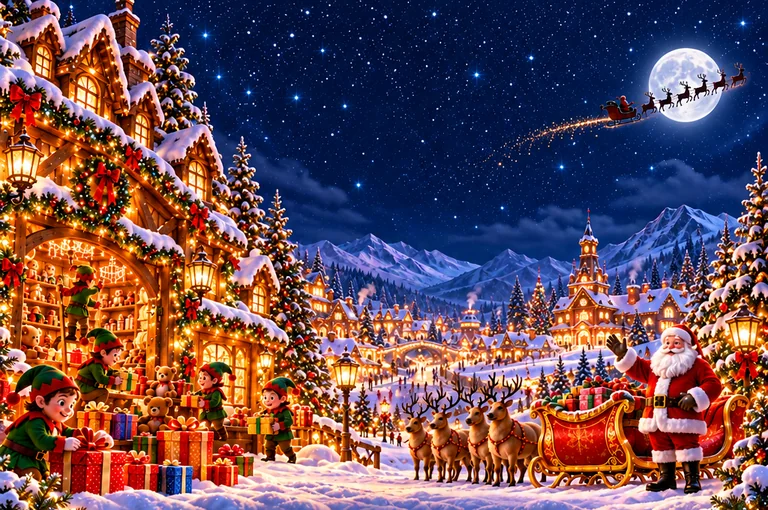
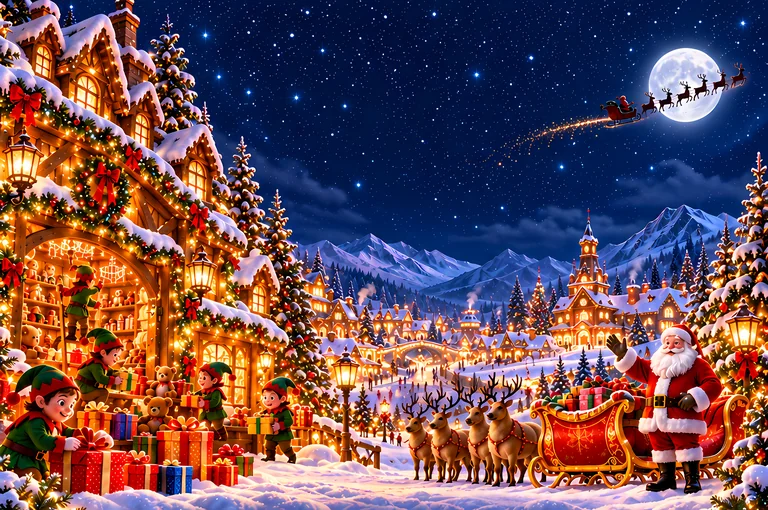
North Pole: picture upscaled with Real-ESRGAN (2560px, crisp), new file name

diff --git a/theme/ridgeroad/looks/looks.css b/theme/ridgeroad/looks/looks.css
@@ -309,7 +309,7 @@ body.rr-look--northpole .rr-donate__art { background-image: url(northpole/donati
 	body.rr-looks::before { background: var(--lk-full) var(--lk-full-pos) / var(--lk-full-size) no-repeat, var(--lk-full-bg); }
 	body.rr-looks::after { display: none; }
 	body.rr-look--village { --lk-full: url(village/hero.webp); --lk-full-pos: center top; --lk-full-size: cover; --lk-full-bg: #0a1434; }
-	body.rr-look--northpole { --lk-full: url(northpole/scene-2048.webp); --lk-full-size: 100% auto; --lk-full-bg: #07152b;
+	body.rr-look--northpole { --lk-full: url(northpole/scene-hd.webp); --lk-full-size: 100% auto; --lk-full-bg: #07152b;
 		/* the bottom of Santa's sleigh (64% down the width of the picture) sits on the bottom of the header */
 		--lk-full-pos: center calc(var(--rr-head-h, 380px) - 63.6vw); }
 	.rr-looks .rr-side, .rr-looks .rr-frame .rr-garland--top, .rr-looks .rr-frame .rr-bow { display: none !important; }

diff --git a/theme/ridgeroad/looks/looks.php b/theme/ridgeroad/looks/looks.php
@@ -74,7 +74,7 @@ add_action( 'wp_head', function () {
 		return;
 	}
 	// computers: the one picture behind the page; phones: the picture above the show name
-	$full = file_exists( get_template_directory() . '/looks/' . ridgeroad_look() . '/scene-2048.webp' ) ? 'scene-2048.webp' : 'hero.webp';
+	$full = file_exists( get_template_directory() . '/looks/' . ridgeroad_look() . '/scene-hd.webp' ) ? 'scene-hd.webp' : 'hero.webp';
 	printf( '<link rel="preload" as="image" href="%s" media="(min-width: 861px)" fetchpriority="high">' . "\n", esc_url( ridgeroad_look_img( $full ) ) );
 	printf( '<link rel="preload" as="image" href="%s" media="(max-width: 860px)" fetchpriority="high">' . "\n", esc_url( ridgeroad_look_img( 'hero-small.webp' ) ) );
 	foreach ( array( 'cinzel-latin-700-normal.woff2', 'great-vibes-latin-400-normal.woff2' ) as $font ) {
